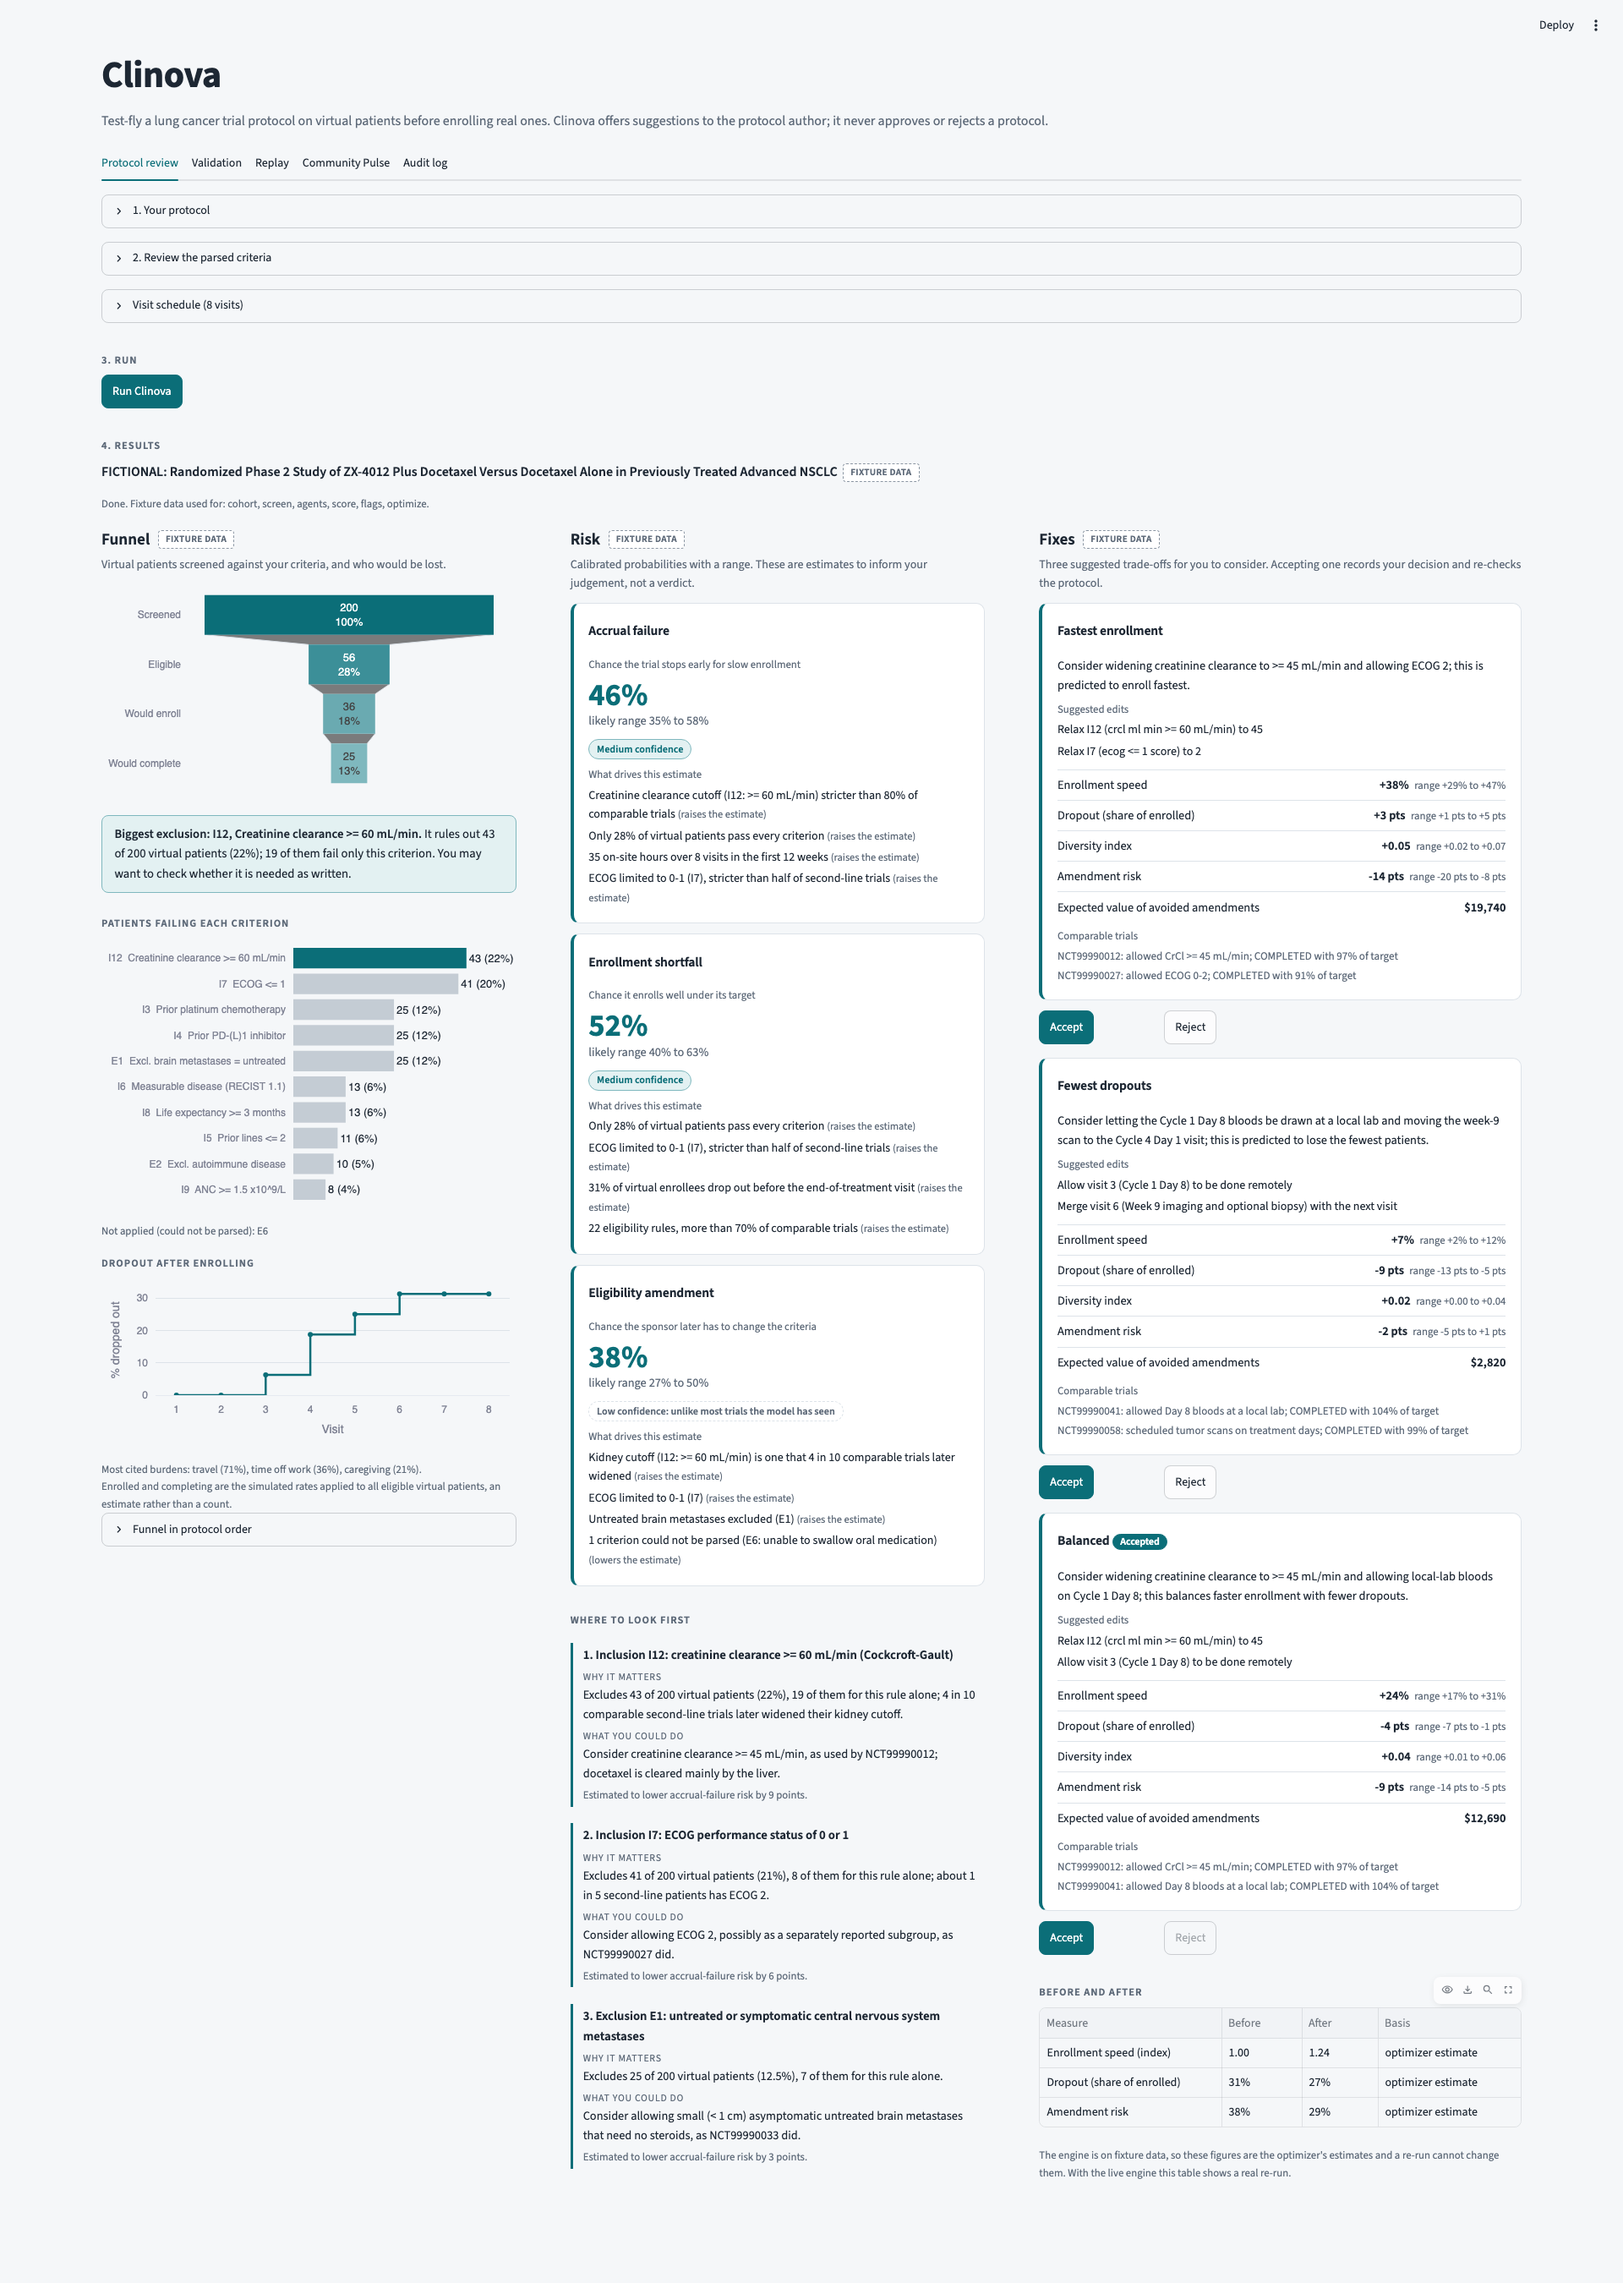
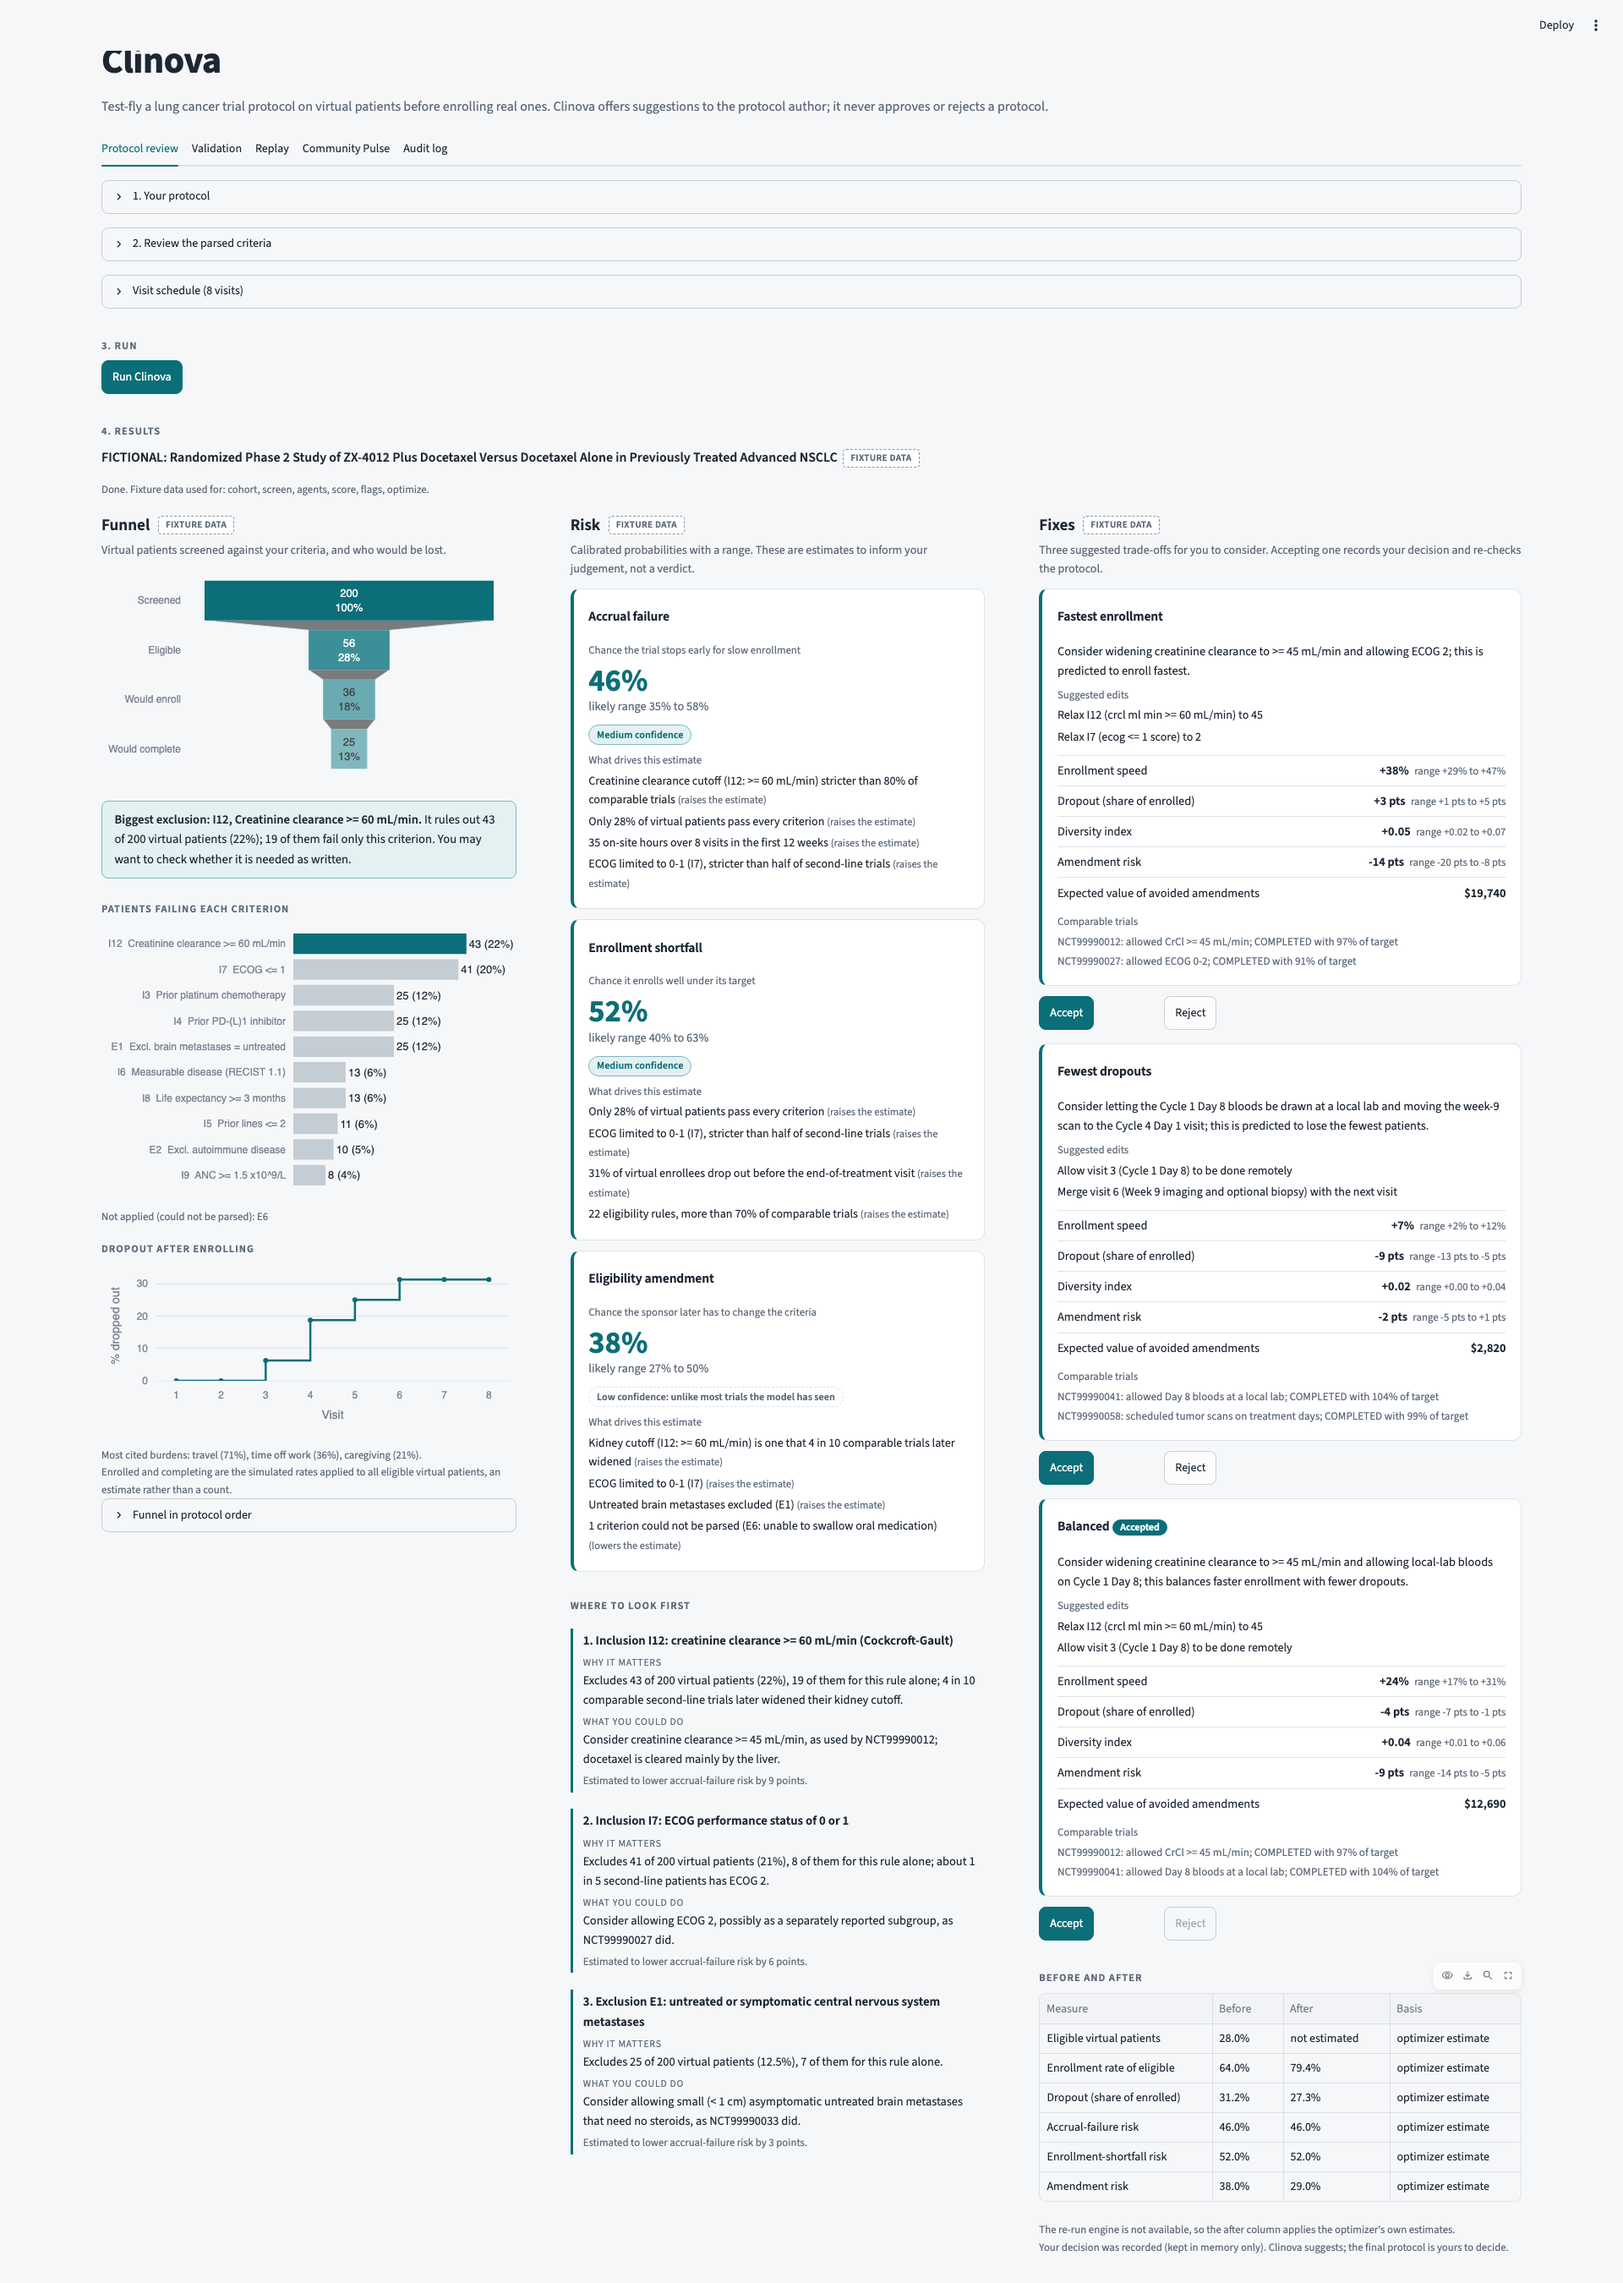
T25: retake screenshots, estimate basis shows unestimated risks as not estimated

diff --git a/clinova/api/quick.py b/clinova/api/quick.py
@@ -148,7 +148,7 @@ def estimate_after(before_m: Measures, fix: Fix) -> Measures:
         enroll_rate=None if before_m.enroll_rate is None else _clip01(before_m.enroll_rate * (1 + fix.delta_enroll)),
         dropout_rate=add(before_m.dropout_rate, fix.delta_dropout),
         diversity_index=None if before_m.diversity_index is None else before_m.diversity_index + fix.delta_diversity,
-        accrual_fail_p=before_m.accrual_fail_p,
-        shortfall_p=before_m.shortfall_p,
+        accrual_fail_p=None,  # the optimizer only estimates amendment risk; never show an unchanged number as a result
+        shortfall_p=None,
         amend_p=add(before_m.amend_p, fix.delta_p_amend),
     )
